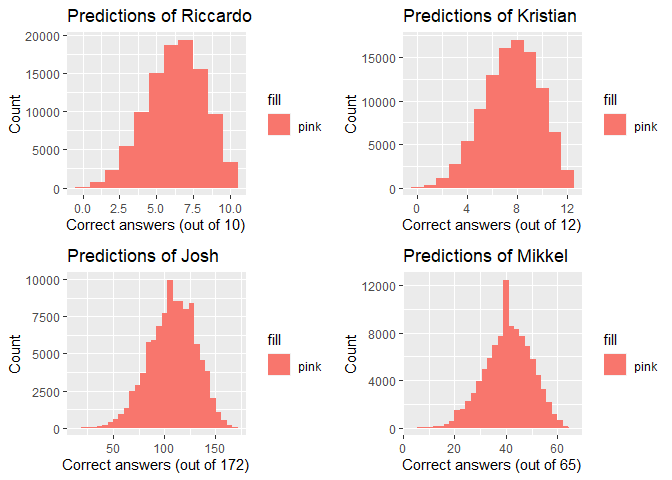
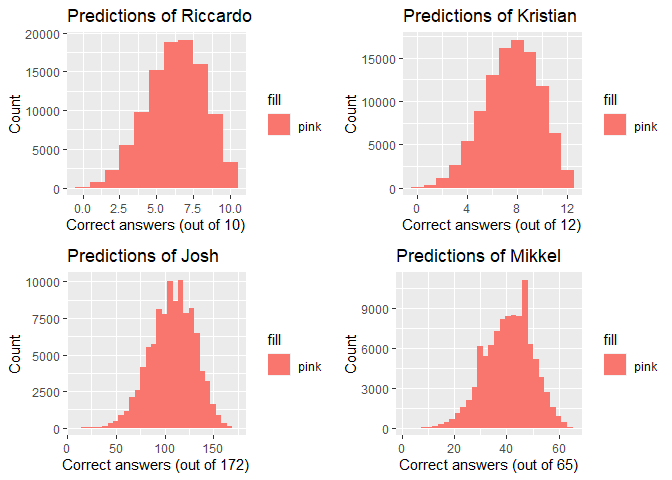
now with everything

diff --git a/assignment-2-last-document.md b/assignment-2-last-document.md
@@ -196,9 +196,9 @@ summary_stats(ric)
 ```
 
     ##      |0.8      0.8| 
-    ## 0.2592593 0.7067067 
+    ## 0.2702703 0.7117117 
     ## [1] 0.4994995
-    ## [1] 0.1677647
+    ## [1] 0.1656042
 
 ``` r
 ## Kristian
@@ -208,9 +208,9 @@ summary_stats(kris)
 ```
 
     ##      |0.8      0.8| 
-    ## 0.5865866 1.0000000 
+    ## 0.5945946 1.0000000 
     ## [1] 1
-    ## [1] 0.194248
+    ## [1] 0.191587
 
 ``` r
 ## Josh
@@ -220,9 +220,9 @@ summary_stats(josh)
 ```
 
     ##      |0.8      0.8| 
-    ## 0.7677678 0.8388388 
+    ## 0.7727728 0.8428428 
     ## [1] 0.8078078
-    ## [1] 0.02812207
+    ## [1] 0.02792883
 
 ``` r
 ## Mikkel
@@ -232,9 +232,9 @@ summary_stats(mik)
 ```
 
     ##      |0.8      0.8| 
-    ## 0.4424424 0.5525526 
+    ## 0.4424424 0.5535536 
     ## [1] 0.4994995
-    ## [1] 0.04315684
+    ## [1] 0.0434567
 
 ``` r
 ## plotting knowledge of everyone at one
@@ -247,7 +247,7 @@ grid.arrange(ric_plot, kris_plot, josh_plot, mik_plot, nrow=2)
 sum(kris$sample<josh$sample)/1e4*100 #josh is smarter than Kristian
 ```
 
-    ## [1] 51.96
+    ## [1] 51.86
 
 ## Question 3
 
@@ -267,9 +267,9 @@ summary_stats(ric3)
 ```
 
     ##      |0.8      0.8| 
-    ## 0.4654655 0.7907908 
+    ## 0.4744745 0.7987988 
     ## [1] 0.6466466
-    ## [1] 0.1254254
+    ## [1] 0.1260536
 
 ``` r
 ## Kristian
@@ -279,9 +279,9 @@ summary_stats(kris3)
 ```
 
     ##      |0.8      0.8| 
-    ## 0.6906907 0.9979980 
+    ## 0.6946947 1.0000000 
     ## [1] 0.8898899
-    ## [1] 0.1335564
+    ## [1] 0.1323245
 
 ``` r
 ## Josh
@@ -291,9 +291,9 @@ summary_stats(josh3)
 ```
 
     ##      |0.8      0.8| 
-    ## 0.7717718 0.8408408 
+    ## 0.7697698 0.8398398 
     ## [1] 0.8078078
-    ## [1] 0.0276306
+    ## [1] 0.02772858
 
 ``` r
 ## Mikkel
@@ -303,9 +303,9 @@ summary_stats(mik3)
 ```
 
     ##      |0.8      0.8| 
-    ## 0.4554555 0.5625626 
+    ## 0.4604605 0.5685686 
     ## [1] 0.5135135
-    ## [1] 0.04190929
+    ## [1] 0.04240518
 
 ``` r
 ## plotting
@@ -349,9 +349,9 @@ summary_stats(ric4_uni)
 ```
 
     ##      |0.8      0.8| 
-    ## 0.4724725 0.5235235 
+    ## 0.4744745 0.5255255 
     ## [1] 0.4994995
-    ## [1] 0.02022161
+    ## [1] 0.02025934
 
 ``` r
 summary_stats(kris4_uni)
@@ -360,7 +360,7 @@ summary_stats(kris4_uni)
     ##     |0.8     0.8| 
     ## 0.991992 1.000000 
     ## [1] 1
-    ## [1] 0.004921618
+    ## [1] 0.005013777
 
 ``` r
 summary_stats(josh4_uni)
@@ -369,16 +369,16 @@ summary_stats(josh4_uni)
     ##      |0.8      0.8| 
     ## 0.7967968 0.8188188 
     ## [1] 0.8078078
-    ## [1] 0.008936748
+    ## [1] 0.008883014
 
 ``` r
 summary_stats(mik4_uni)
 ```
 
     ##      |0.8      0.8| 
-    ## 0.4874875 0.5225225 
+    ## 0.4844845 0.5195195 
     ## [1] 0.5045045
-    ## [1] 0.01374984
+    ## [1] 0.01371008
 
 ``` r
 #summary stats with an informed prior
@@ -386,9 +386,9 @@ summary_stats(ric4_stan)
 ```
 
     ##      |0.8      0.8| 
-    ## 0.4784785 0.5295295 
+    ## 0.4774775 0.5285285 
     ## [1] 0.5035035
-    ## [1] 0.02022015
+    ## [1] 0.02029656
 
 ``` r
 summary_stats(kris4_stan)
@@ -397,7 +397,7 @@ summary_stats(kris4_stan)
     ##     |0.8     0.8| 
     ## 0.991992 1.000000 
     ## [1] 1
-    ## [1] 0.005100309
+    ## [1] 0.00498643
 
 ``` r
 summary_stats(josh4_stan)
@@ -406,7 +406,7 @@ summary_stats(josh4_stan)
     ##      |0.8      0.8| 
     ## 0.7967968 0.8188188 
     ## [1] 0.8078078
-    ## [1] 0.008828038
+    ## [1] 0.008878313
 
 ``` r
 summary_stats(mik4_stan)
@@ -415,7 +415,7 @@ summary_stats(mik4_stan)
     ##      |0.8      0.8| 
     ## 0.4894895 0.5245245 
     ## [1] 0.5055055
-    ## [1] 0.01371969
+    ## [1] 0.01370162
 
 ## Question 5
 
@@ -536,16 +536,17 @@ error_hist(ric3$teacher_posterior,10,9, "Riccardo Error")
 ![](assignment-2-last-document_files/figure-gfm/unnamed-chunk-5-3.png)<!-- -->
 
     ## $breaks
-    ##  [1] -8 -7 -6 -5 -4 -3 -2 -1  0  1
+    ##  [1] -9 -8 -7 -6 -5 -4 -3 -2 -1  0  1
     ## 
     ## $counts
-    ## [1]    56   640  3507 11662 23922 30323 21816  7536   538
+    ##  [1]     1    51   618  3520 11562 23838 30439 21966  7439   566
     ## 
     ## $density
-    ## [1] 0.00056 0.00640 0.03507 0.11662 0.23922 0.30323 0.21816 0.07536 0.00538
+    ##  [1] 0.00001 0.00051 0.00618 0.03520 0.11562 0.23838 0.30439 0.21966 0.07439
+    ## [10] 0.00566
     ## 
     ## $mids
-    ## [1] -7.5 -6.5 -5.5 -4.5 -3.5 -2.5 -1.5 -0.5  0.5
+    ##  [1] -8.5 -7.5 -6.5 -5.5 -4.5 -3.5 -2.5 -1.5 -0.5  0.5
     ## 
     ## $xname
     ## [1] "samples * questions - correct"
@@ -566,11 +567,11 @@ error_hist(kris3$teacher_posterior,12,8, "Kristian Error")
     ##  [1] -7 -6 -5 -4 -3 -2 -1  0  1  2  3  4
     ## 
     ## $counts
-    ##  [1]     3    17   135   505  1721  4452  9296 15403 21461 23953 23054
+    ##  [1]     4    19   126   526  1738  4405  9257 15385 21371 24188 22981
     ## 
     ## $density
-    ##  [1] 0.00003 0.00017 0.00135 0.00505 0.01721 0.04452 0.09296 0.15403 0.21461
-    ## [10] 0.23953 0.23054
+    ##  [1] 0.00004 0.00019 0.00126 0.00526 0.01738 0.04405 0.09257 0.15385 0.21371
+    ## [10] 0.24188 0.22981
     ## 
     ## $mids
     ##  [1] -6.5 -5.5 -4.5 -3.5 -2.5 -1.5 -0.5  0.5  1.5  2.5  3.5
@@ -591,21 +592,21 @@ error_hist2(josh3$teacher_posterior,172,148, "Josh Error")
 ![](assignment-2-last-document_files/figure-gfm/unnamed-chunk-5-5.png)<!-- -->
 
     ## $breaks
-    ##  [1] -34 -32 -30 -28 -26 -24 -22 -20 -18 -16 -14 -12 -10  -8  -6  -4  -2   0   2
-    ## [20]   4   6   8  10
+    ##  [1] -32 -30 -28 -26 -24 -22 -20 -18 -16 -14 -12 -10  -8  -6  -4  -2   0   2   4
+    ## [20]   6   8
     ## 
     ## $counts
-    ##  [1]     3     3    13    53   161   445  1153  2633  4651  8397 11358 15863
-    ## [13] 17225 14446 11777  6725  3479  1239   305    58    11     2
+    ##  [1]     6    17    46   182   476  1216  2585  4621  8441 11561 15556 17143
+    ## [13] 14445 11911  6596  3523  1310   309    50     6
     ## 
     ## $density
-    ##  [1] 0.000015 0.000015 0.000065 0.000265 0.000805 0.002225 0.005765 0.013165
-    ##  [9] 0.023255 0.041985 0.056790 0.079315 0.086125 0.072230 0.058885 0.033625
-    ## [17] 0.017395 0.006195 0.001525 0.000290 0.000055 0.000010
+    ##  [1] 0.000030 0.000085 0.000230 0.000910 0.002380 0.006080 0.012925 0.023105
+    ##  [9] 0.042205 0.057805 0.077780 0.085715 0.072225 0.059555 0.032980 0.017615
+    ## [17] 0.006550 0.001545 0.000250 0.000030
     ## 
     ## $mids
-    ##  [1] -33 -31 -29 -27 -25 -23 -21 -19 -17 -15 -13 -11  -9  -7  -5  -3  -1   1   3
-    ## [20]   5   7   9
+    ##  [1] -31 -29 -27 -25 -23 -21 -19 -17 -15 -13 -11  -9  -7  -5  -3  -1   1   3   5
+    ## [20]   7
     ## 
     ## $xname
     ## [1] "samples * questions - correct"
@@ -624,20 +625,22 @@ error_hist2(mik$teacher_posterior,65,34, "Mikkel Error")
 
     ## $breaks
     ##  [1] -14 -13 -12 -11 -10  -9  -8  -7  -6  -5  -4  -3  -2  -1   0   1   2   3   4
-    ## [20]   5   6   7   8   9  10
+    ## [20]   5   6   7   8   9  10  11  12
     ## 
     ## $counts
-    ##  [1]     1     2    20    77   275   663  1413  3093  5073  8392 10682 12799
-    ## [13] 14810 12959 10941  8379  5050  2998  1440   587   244    73    23     6
+    ##  [1]     1     4    14    76   270   615  1384  3050  5094  8416 10984 12877
+    ## [13] 14565 12865 10730  8539  5022  3027  1428   671   259    72    27     9
+    ## [25]     0     1
     ## 
     ## $density
-    ##  [1] 0.00001 0.00002 0.00020 0.00077 0.00275 0.00663 0.01413 0.03093 0.05073
-    ## [10] 0.08392 0.10682 0.12799 0.14810 0.12959 0.10941 0.08379 0.05050 0.02998
-    ## [19] 0.01440 0.00587 0.00244 0.00073 0.00023 0.00006
+    ##  [1] 0.00001 0.00004 0.00014 0.00076 0.00270 0.00615 0.01384 0.03050 0.05094
+    ## [10] 0.08416 0.10984 0.12877 0.14565 0.12865 0.10730 0.08539 0.05022 0.03027
+    ## [19] 0.01428 0.00671 0.00259 0.00072 0.00027 0.00009 0.00000 0.00001
     ## 
     ## $mids
     ##  [1] -13.5 -12.5 -11.5 -10.5  -9.5  -8.5  -7.5  -6.5  -5.5  -4.5  -3.5  -2.5
     ## [13]  -1.5  -0.5   0.5   1.5   2.5   3.5   4.5   5.5   6.5   7.5   8.5   9.5
+    ## [25]  10.5  11.5
     ## 
     ## $xname
     ## [1] "samples * questions - correct"
